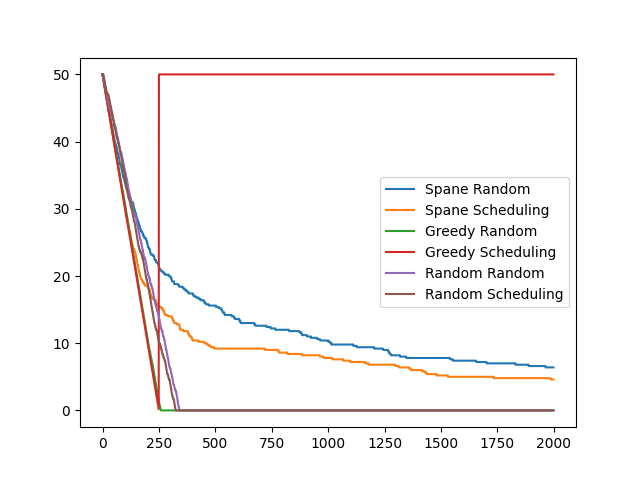
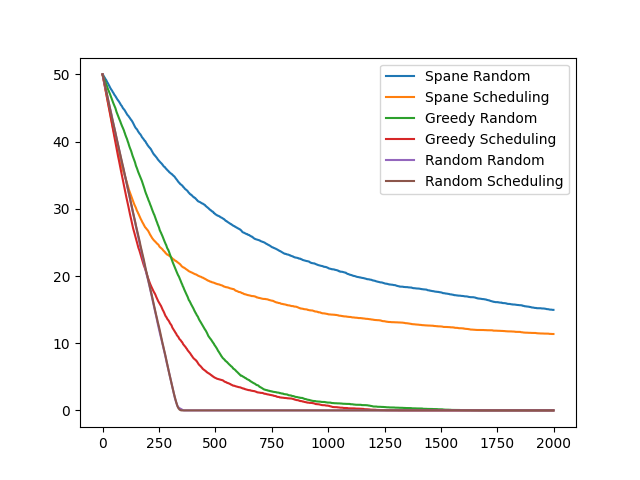
added files

diff --git a/test_benchmark.py b/test_benchmark.py
@@ -11,7 +11,6 @@ def plot_policy(policy,M,O):
     for i in range(M):
         for j in range(O):
             state = j*M + i
-            print(state)
 
             policy_np[state] = policy(i,j,0)
     plt.figure()
@@ -27,8 +26,8 @@ O = 5
 U = 4
 M = 50
 policy_parameters_load = np.zeros((N,O,3*(U-1)))
-policy_parameters_load[:,:,0::3] = np.array([[M-10,M-5,M],[M-20,M-15,M-10],[M-30,M-25,M-20],[M-40,M-35,M-30],[M-50,M-45,M-40]])
-policy_parameters_load[:,:,1::3] = np.array([[M,M,M],[M-10,M-5,M],[M-20,M-15,M-10],[M-30,M-25,M-20],[M-40,M-35,M-30]])
+policy_parameters_load[:,:,0::3] = np.array([[M,M,M],[M,M,M],[M-30,M-25,M-20],[M-40,M-40,M-40],[0,0,0]])
+policy_parameters_load[:,:,1::3] = np.array([[M,M,M],[M,M,M],[M-20,M-15,M-10],[M-40,M-40,M-40],[0,0,0]])
 policy_parameters_load[:,:,2::3] =  np.array([[1],[1],[1],[1],[1]])
 
 ### Greedy Scheduling, Random Action
@@ -40,19 +39,21 @@ N_rounds = 2000
 N_Learners = 5
 N_classes = 10
 
-N_mc = 1
+N_mc = 20
 policies = [spane_action,spane_action,greedy_action_3,greedy_action_3,random_action,random_action]
 scheduling = [get_current_learner_random, get_current_learner, get_current_learner_random, get_current_learner, get_current_learner_random, get_current_learner]
 
 N_communication_rounds = np.zeros((len(policies),N_mc))
 
 learner_states_store = np.ones((N_mc,len(policies),N_rounds,N_Learners))*M  ### Stores the learner states for each mc round
-class_counts = np.zeros((len(policies),N_mc,N_rounds,N_Learners,2)) ### Stores the class counts for each mc round
 round_participation = np.zeros((len(policies),N_mc,N_rounds,N_Learners)) ### Stores the round participation for each mc round
 action_rounds = np.zeros((len(policies),N_mc,N_rounds,N_Learners)) ### Stores the actions for each mc round
 oracle_states_store = np.zeros((N_mc,len(policies),N_rounds,N_Learners))
 
-PERFORM_EXP = 1
+round_success_store = np.zeros((O,U,2))
+incentive_used = np.zeros((len(policies),N_mc,N_rounds,N_Learners))
+
+PERFORM_EXP = 0
 
 if PERFORM_EXP:
     for mc_round in tqdm.tqdm(range(N_mc)):
@@ -75,8 +76,13 @@ if PERFORM_EXP:
                     action_rounds[policy,mc_round,round_,current_learner] = action
                     if action != 0:
                         action -= 1
+                        incentive_used[policy,mc_round,round_,current_learner] += action + 1
                         oracle.update_client_selection_matrix(action,oracle.learner_class_preference[current_learner])
                         round_success = oracle.get_oracle_success(current_learner,"class")
+
+                        round_success_store[oracle_states[current_learner],action+1,0] += round_success
+                        round_success_store[oracle_states[current_learner],action+1,1] += 1
+
                         if policy != 4 and policy != 5:
                             current_round_learner_states[current_learner] -= round_success
                         else:
@@ -86,23 +92,28 @@ if PERFORM_EXP:
                 oracle.update_client_partition_matrix()
                 current_round_learner_states[current_round_learner_states<0] = 0
                 learner_states_store[mc_round,policy,round_+1,:] = current_round_learner_states.copy()
-                class_counts[policy,mc_round,round_+1,current_learner,:] = oracle.class_dist[oracle.learner_class_preference[current_learner]]
                 round_participation[policy,mc_round,round_+1,current_learner] = 1
     np.save("parameters/learner_states.npy",learner_states_store)
-    np.save("parameters/class_counts.npy",class_counts)
     np.save("parameters/round_participation.npy",round_participation)
     np.save("parameters/action_rounds.npy",action_rounds)
     np.save("parameters/oracle_states.npy",oracle_states_store)
+    np.save("parameters/round_success.npy",round_success_store)
+    np.save("parameters/incentive_used.npy",incentive_used)
+
 
 action_rounds = np.load("parameters/action_rounds.npy")
 learner_states_store = np.load("parameters/learner_states.npy")
-class_counts = np.load("parameters/class_counts.npy")
 round_participation = np.load("parameters/round_participation.npy")
 oracle_states_store = np.load("parameters/oracle_states.npy")
+round_success_store = np.load("parameters/round_success.npy")
+incentive_used = np.load("parameters/incentive_used.npy")
 
+print(round_success_store[:,:,0]/round_success_store[:,:,1])
+print(incentive_used.sum(2).mean(1).sum(-1))
+
+print(round_success_store[:,:,1].sum(1))
 
 ## For each mc round, for each learner take average of only the rounds that the learner participated in
-class_counts_mean = np.zeros((len(policies),N_mc,N_Learners,2))
 action_rounds_mean = np.zeros((len(policies),N_mc,N_Learners))
 learner_states_mean = np.zeros((len(policies),N_mc,N_Learners))
 for policy in range(len(policies)):
@@ -110,17 +121,13 @@ for policy in range(len(policies)):
         for learner in range(N_Learners):
             action_rounds_mean_learner = action_rounds[policy,mc_round,round_participation[policy,mc_round,:,learner]==1,learner].mean(0)
             action_rounds_mean[policy,mc_round,learner] = action_rounds_mean_learner if np.sum(round_participation[policy,mc_round,:,learner]==1)>0 else np.array([0])
-            class_counts_mean_learner = class_counts[policy,mc_round,round_participation[policy,mc_round,:,learner]==1,learner,:].mean(0)
-            class_counts_mean[policy,mc_round,learner,:] = class_counts_mean_learner if np.sum(round_participation[policy,mc_round,:,learner]==1)>0 else np.array([0,0])
             learner_states_mean_learner = learner_states_store[mc_round,policy,round_participation[policy,mc_round,:,learner]==1,learner]
             learner_states_mean[policy,mc_round,learner] = learner_states_mean_learner[-1] if np.sum(round_participation[policy,:,learner]==1)>0 else np.array([0])
 
 
 print(learner_states_mean.mean(1))
 ### highlight nan indices
-class_counts_mean = np.nan_to_num(class_counts_mean, copy=False, nan=0)
 
-print((class_counts_mean.mean(1)[1]-class_counts_mean.mean(1)[-1]).mean())
 
 policy_names = ["Spane Random","Spane Scheduling","Greedy Random","Greedy Scheduling","Random Random","Random Scheduling"]
 plt.figure()
@@ -134,12 +141,6 @@ for i in range(len(policies)):
     plt.plot(np.arange(N_rounds),action_rounds.mean(1).mean(2)[i],label=policy_names[i])
 plt.legend()
 plt.savefig("figures/actions_rounds.png")
-
-plt.figure()
-for i in range(len(policies)):
-    plt.plot(np.arange(N_rounds),class_counts.mean(1).mean(2)[i],label=policy_names[i])
-plt.legend()
-plt.savefig("figures/class_counts.png")
 
 plt.figure()
 fig,axs = plt.subplots(1,N_Learners)

diff --git a/components/client_oracle.py b/components/client_oracle.py
@@ -18,9 +18,9 @@ class Oracle():
                 client_dirichlet_alpha = [[0.6,0.4],[0.42,0.2,0.16,0.14,0.08]],
                 client_dirichlet_alpha_class = [0.1,0.1,0.1,0.1,0.1,0.1,0.1,0.1,0.1,0.1],
                 learner_class_preference = np.array([[0,1],[2,3],[4,5],[6,7],[8,9]]), ### Learner class preference,
-                state_thresholds = np.array([0,0.05,0.1,0.2,0.3]), ### Thresholds on class distribution to determine oracle state for each learner
+                state_thresholds = np.array([0,0.2,0.25,0.30,0.35]), ### Thresholds on class distribution to determine oracle state for each learner
                 state_thresholds_groups = [0,0.2,0.4,0.6,0.8],
-                success_thresholds = 0.4,
+                success_thresholds = 0.6,
                 success_thresholds_groups = 0.75,
                 learner_group_preference =  [0,3,1,4,5],
                 N_mins = [0,0.5,1], ### Minimum number of samples per class per client
@@ -30,7 +30,7 @@ class Oracle():
                 ],
                 dist_classes = [[0.1,0.1],
                               [0.2,0.2],
-                              [0.5,0.5]],
+                              [0.3,0.3]],
                 client_dataset_path = "data/client_dataset/"
                 
                  ):
@@ -142,11 +142,6 @@ class Oracle():
         self.class_dist = self.client_dataset_selection_matrix.sum(axis=0)
         self.class_dist = self.class_dist/np.sum(self.class_dist)
 
-
-
-        # self.group_dist = self.client_dataset_selection_matrix_groups.sum(axis=0)
-        # self.group_dist[0:self.n_categories_per_group[0]] = self.group_dist[0:self.n_categories_per_group[0]]/np.max(self.group_dist[0:self.n_categories_per_group[0]])
-        # self.group_dist[self.n_categories_per_group[0]:] = self.group_dist[self.n_categories_per_group[0]:]/np.max(self.group_dist[self.n_categories_per_group[0]:])
     def update_client_partition_matrix(self):
         for client in range(self.n_clients):
             self.client_selection_matrix[client] = np.random.choice([0,1],p = self.p_stay[int(self.client_selection_matrix[client])])

diff --git a/utils/funcs.py b/utils/funcs.py
@@ -22,9 +22,11 @@ def get_current_learner(learner_states,oracle_states):
     current_learner_min = 100
     current_learner = 0
     for i in range(len(learner_states)):
+    
         if ((oracle_states[i]+1)*(learner_states[i]+1)<=0):
             print("Error",oracle_states,learner_states)
-            
+        if learner_states[i] == 0:
+            continue      
         if (1/((oracle_states[i]+1)*(learner_states[i]+1)))<current_learner_min:
             current_learner_min = (1/((oracle_states[i]+1)*(learner_states[i]+1)))
             current_learner = i
